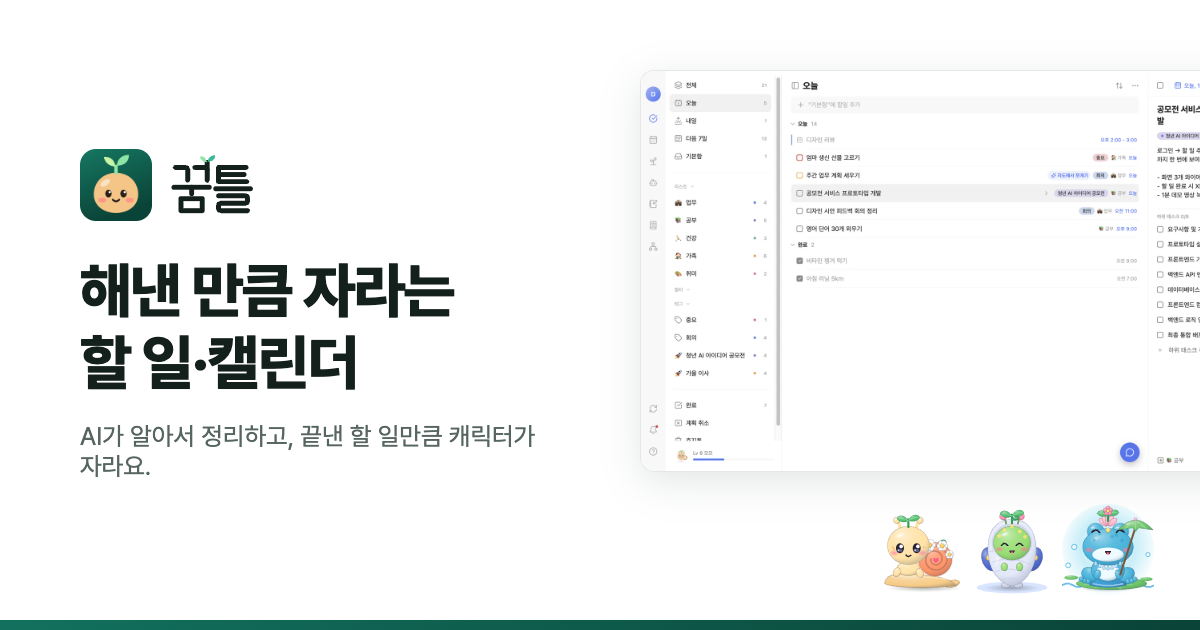
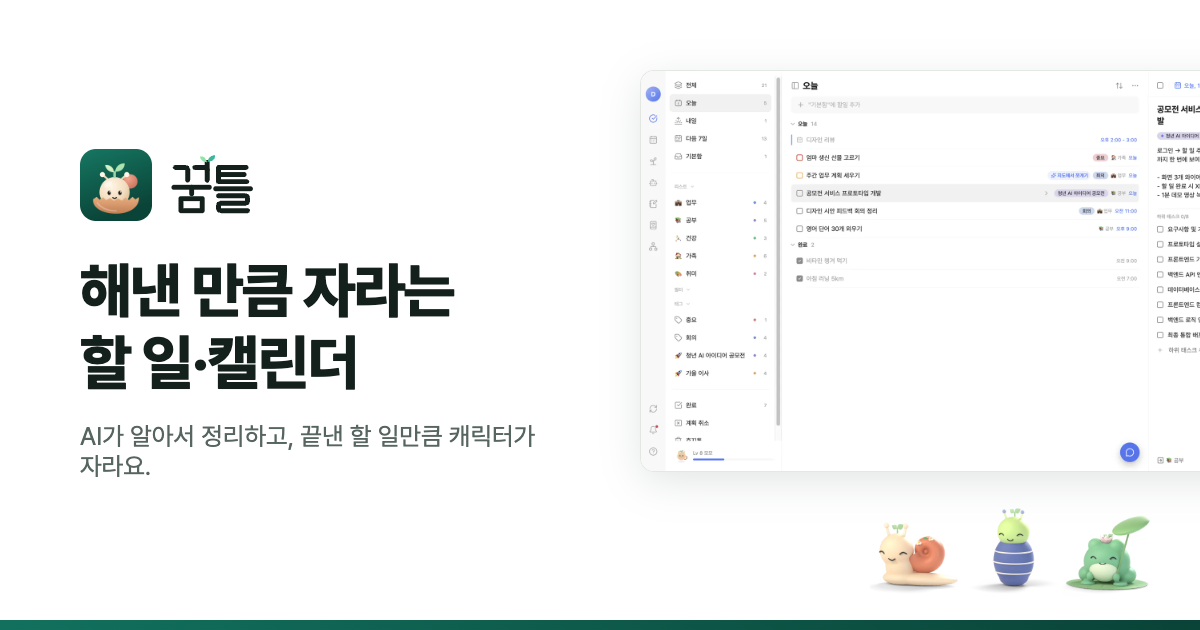
사이트 다시 빌드·배포(Railway + GitHub Pages): 마스코트 아이콘 반영 — 공유 이미지(og.png) 새 아이콘, 자산 캐시 버전값

Changed region(s): [[0.7092, 0.7841, 0.9558, 0.9651], [0.0617, 0.2413, 0.1233, 0.3619]]

diff --git a/site/public/index.html b/site/public/index.html
@@ -30,7 +30,7 @@
 <link rel="icon" href="/favicon.svg" type="image/svg+xml">
 <link rel="apple-touch-icon" href="/apple-touch-icon.png">
 <link rel="manifest" href="/site.webmanifest">
-<link rel="stylesheet" href="/assets/styles.css?v=mv0w4gfh">
+<link rel="stylesheet" href="/assets/styles.css?v=mv1y6t2x">
 </head>
 <body>
 <a class="skip" href="#main"><span lang="ko" data-l="ko">본문으로 건너뛰기</span><span lang="en" data-l="en">Skip to content</span></a>
@@ -183,7 +183,7 @@
 <a href="/support"><span lang="ko" data-l="ko">지원</span><span lang="en" data-l="en">Support</span></a>
 </nav>
 </div></footer>
-<script src="/assets/app.js?v=mv0w4gfh" defer></script>
-<script src="/assets/demos.js?v=mv0w4gfh" defer></script>
+<script src="/assets/app.js?v=mv1y6t2x" defer></script>
+<script src="/assets/demos.js?v=mv1y6t2x" defer></script>
 </body>
 </html>

diff --git a/site/public/account-deletion.html b/site/public/account-deletion.html
@@ -30,7 +30,7 @@
 <link rel="icon" href="/favicon.svg" type="image/svg+xml">
 <link rel="apple-touch-icon" href="/apple-touch-icon.png">
 <link rel="manifest" href="/site.webmanifest">
-<link rel="stylesheet" href="/assets/styles.css?v=mv0w4gfh">
+<link rel="stylesheet" href="/assets/styles.css?v=mv1y6t2x">
 </head>
 <body>
 <a class="skip" href="#main"><span lang="ko" data-l="ko">본문으로 건너뛰기</span><span lang="en" data-l="en">Skip to content</span></a>
@@ -103,6 +103,6 @@
 <a href="/support"><span lang="ko" data-l="ko">지원</span><span lang="en" data-l="en">Support</span></a>
 </nav>
 </div></footer>
-<script src="/assets/app.js?v=mv0w4gfh" defer></script>
+<script src="/assets/app.js?v=mv1y6t2x" defer></script>
 </body>
 </html>

diff --git a/site/public/privacy.html b/site/public/privacy.html
@@ -30,7 +30,7 @@
 <link rel="icon" href="/favicon.svg" type="image/svg+xml">
 <link rel="apple-touch-icon" href="/apple-touch-icon.png">
 <link rel="manifest" href="/site.webmanifest">
-<link rel="stylesheet" href="/assets/styles.css?v=mv1i1zs2">
+<link rel="stylesheet" href="/assets/styles.css?v=mv1y6t2x">
 </head>
 <body>
 <a class="skip" href="#main"><span lang="ko" data-l="ko">본문으로 건너뛰기</span><span lang="en" data-l="en">Skip to content</span></a>
@@ -145,6 +145,6 @@
 <a href="/support"><span lang="ko" data-l="ko">지원</span><span lang="en" data-l="en">Support</span></a>
 </nav>
 </div></footer>
-<script src="/assets/app.js?v=mv1i1zs2" defer></script>
+<script src="/assets/app.js?v=mv1y6t2x" defer></script>
 </body>
 </html>

diff --git a/site/public/terms.html b/site/public/terms.html
@@ -30,7 +30,7 @@
 <link rel="icon" href="/favicon.svg" type="image/svg+xml">
 <link rel="apple-touch-icon" href="/apple-touch-icon.png">
 <link rel="manifest" href="/site.webmanifest">
-<link rel="stylesheet" href="/assets/styles.css?v=mv0w4gfh">
+<link rel="stylesheet" href="/assets/styles.css?v=mv1y6t2x">
 </head>
 <body>
 <a class="skip" href="#main"><span lang="ko" data-l="ko">본문으로 건너뛰기</span><span lang="en" data-l="en">Skip to content</span></a>
@@ -125,6 +125,6 @@
 <a href="/support"><span lang="ko" data-l="ko">지원</span><span lang="en" data-l="en">Support</span></a>
 </nav>
 </div></footer>
-<script src="/assets/app.js?v=mv0w4gfh" defer></script>
+<script src="/assets/app.js?v=mv1y6t2x" defer></script>
 </body>
 </html>

diff --git a/site/public/404.html b/site/public/404.html
@@ -30,7 +30,7 @@
 <link rel="icon" href="/favicon.svg" type="image/svg+xml">
 <link rel="apple-touch-icon" href="/apple-touch-icon.png">
 <link rel="manifest" href="/site.webmanifest">
-<link rel="stylesheet" href="/assets/styles.css?v=mv0w4gfh">
+<link rel="stylesheet" href="/assets/styles.css?v=mv1y6t2x">
 </head>
 <body>
 <a class="skip" href="#main"><span lang="ko" data-l="ko">본문으로 건너뛰기</span><span lang="en" data-l="en">Skip to content</span></a>
@@ -62,6 +62,6 @@
 <a href="/support"><span lang="ko" data-l="ko">지원</span><span lang="en" data-l="en">Support</span></a>
 </nav>
 </div></footer>
-<script src="/assets/app.js?v=mv0w4gfh" defer></script>
+<script src="/assets/app.js?v=mv1y6t2x" defer></script>
 </body>
 </html>

diff --git a/site/public/support.html b/site/public/support.html
@@ -30,7 +30,7 @@
 <link rel="icon" href="/favicon.svg" type="image/svg+xml">
 <link rel="apple-touch-icon" href="/apple-touch-icon.png">
 <link rel="manifest" href="/site.webmanifest">
-<link rel="stylesheet" href="/assets/styles.css?v=mv0w4gfh">
+<link rel="stylesheet" href="/assets/styles.css?v=mv1y6t2x">
 </head>
 <body>
 <a class="skip" href="#main"><span lang="ko" data-l="ko">본문으로 건너뛰기</span><span lang="en" data-l="en">Skip to content</span></a>
@@ -97,6 +97,6 @@
 <a href="/support"><span lang="ko" data-l="ko">지원</span><span lang="en" data-l="en">Support</span></a>
 </nav>
 </div></footer>
-<script src="/assets/app.js?v=mv0w4gfh" defer></script>
+<script src="/assets/app.js?v=mv1y6t2x" defer></script>
 </body>
 </html>
